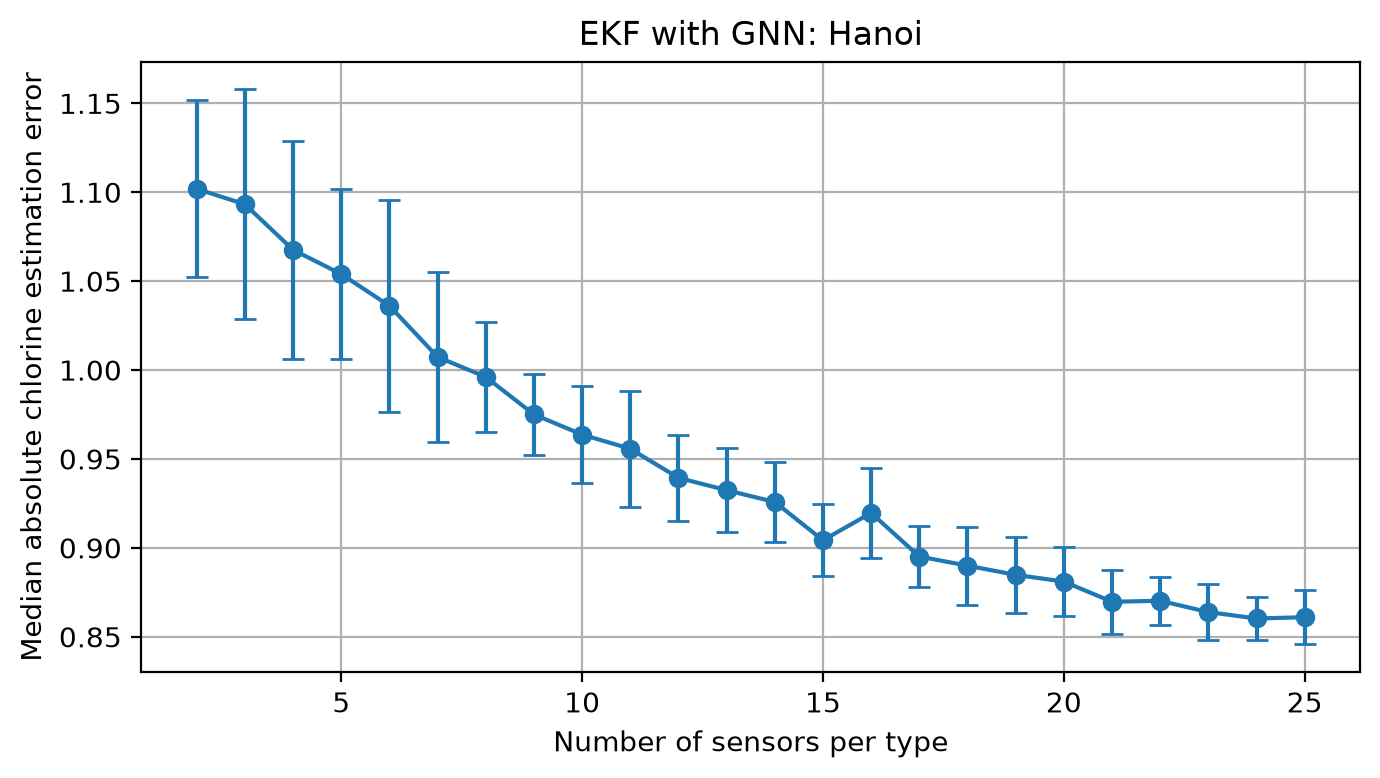
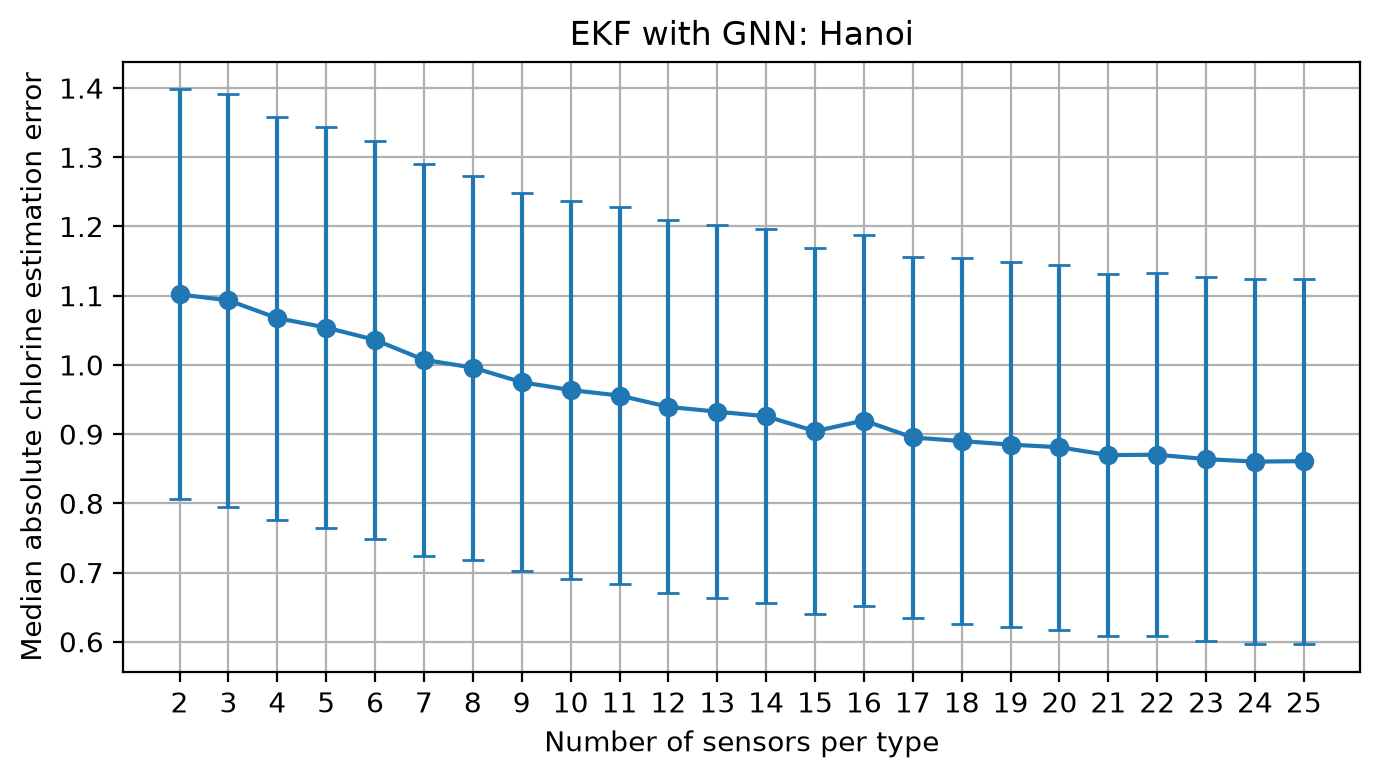
adapt plotting so unstable values are not included and update plots.

diff --git a/src/wdn_kalman/plotting.py b/src/wdn_kalman/plotting.py
@@ -51,14 +51,27 @@ class BaselinePlot:
         plot_file.parent.mkdir(parents=True, exist_ok=True)
         figure, axes = plt.subplots(figsize=(7, 4))
         finite_mask = np.isfinite(result.mean_scores) & np.isfinite(result.std_scores)
-        plot_means = np.where(finite_mask, result.mean_scores, np.nan)
-        plot_stds = np.where(finite_mask, result.std_scores, np.nan)
+        unstable_mask = ~finite_mask
 
-        axes.errorbar(result.sensors, plot_means, yerr=plot_stds, marker="o", capsize=4)
+        if model == "gnn" and kalman_type == "EKF" and result.dataset.net_name == "Net1":
+            unstable_mask |= np.asarray(result.sensors) == 2
+
+        valid_mask = ~unstable_mask
+
+        plot_means = np.where(valid_mask, result.mean_scores, np.nan)
+        plot_stds = np.where(valid_mask, result.std_scores, np.nan)
+
+        axes.errorbar(
+            result.sensors,
+            plot_means,
+            yerr=plot_stds,
+            marker="o",
+            capsize=4,
+        )
         axes.set_xticks(result.sensors)
 
-        for sensor_count, is_finite in zip(result.sensors, finite_mask):
-            if not is_finite:
+        for sensor_count, is_unstable in zip(result.sensors, unstable_mask):
+            if is_unstable:
                 axes.text(
                     sensor_count,
                     0.03,
